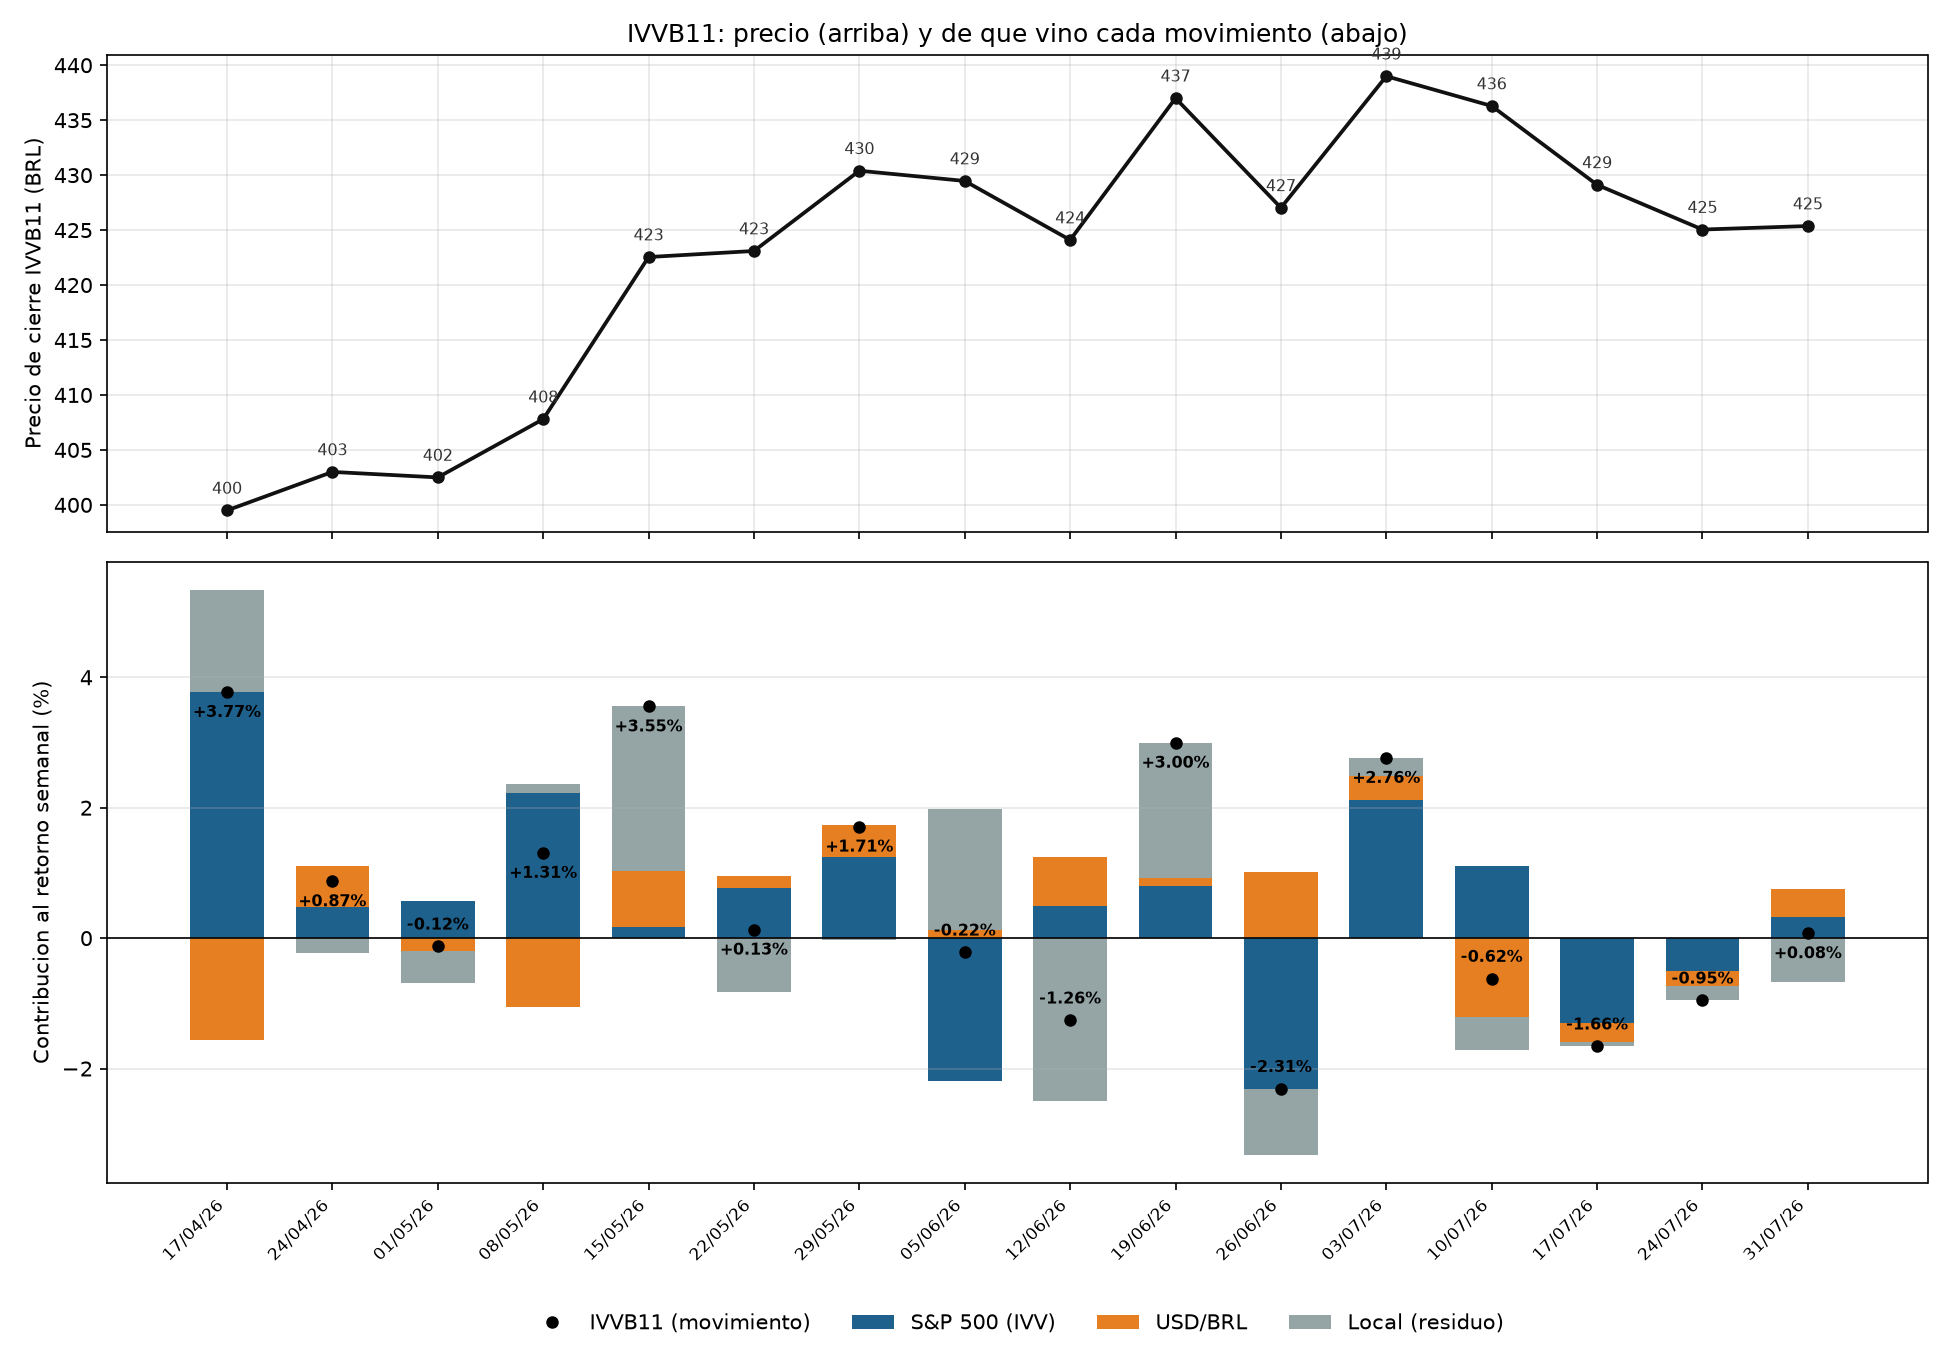
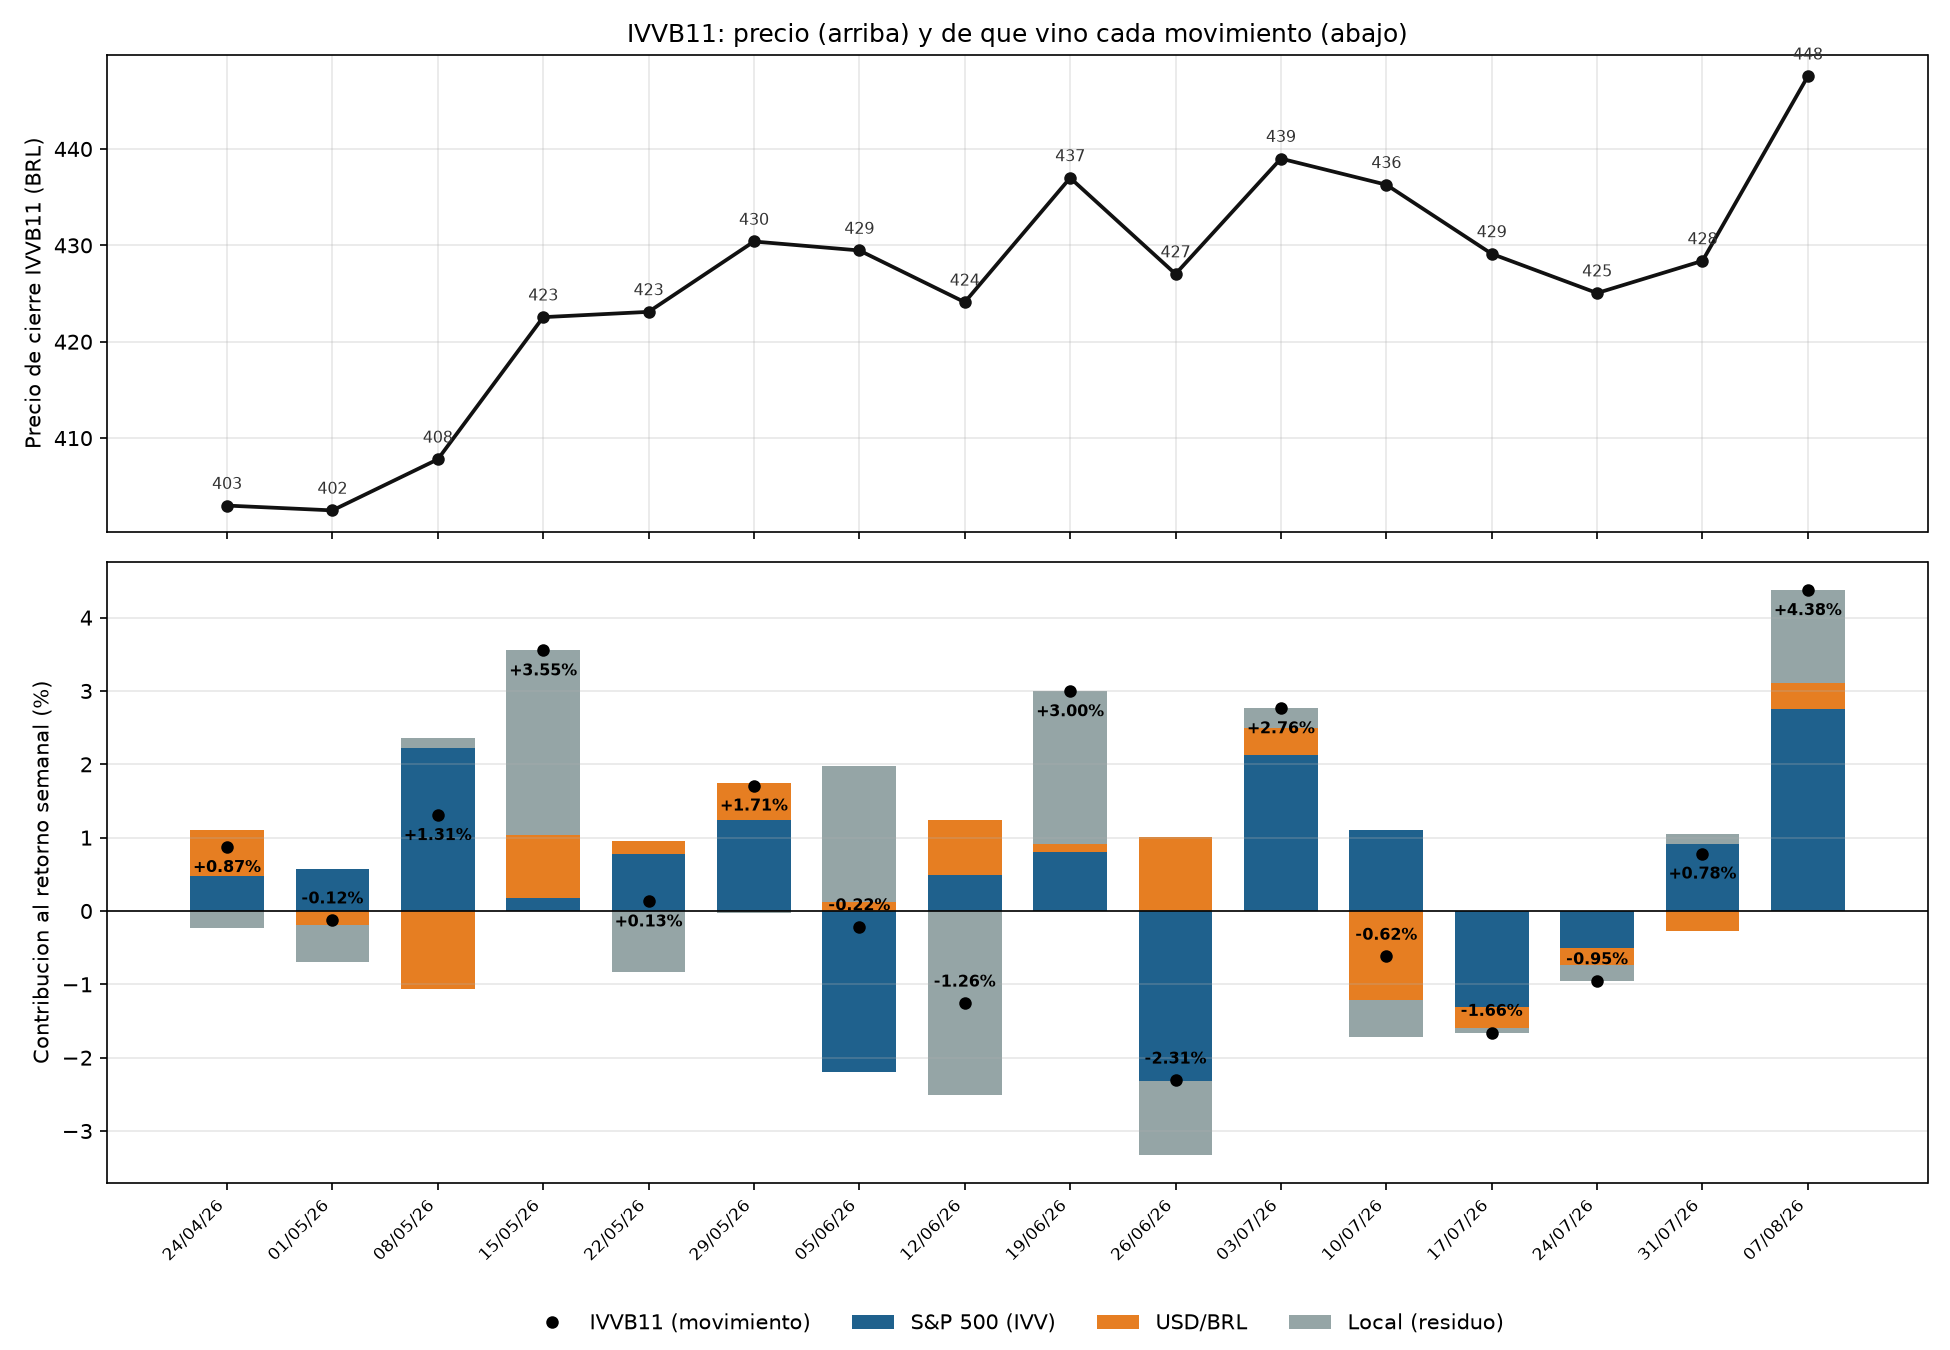
update and fix brent_ivvb11.py

diff --git a/brent_ivvb11.py b/brent_ivvb11.py
@@ -40,7 +40,7 @@ def descomponer(ret):
     contrib = pd.DataFrame({
         "S&P 500 (IVV)": m.params["IVV"] * ret["IVV"],
         "USD/BRL": m.params["USDBRL"] * ret["USDBRL"],
-        "Rresidual (local)": m.resid + m.params["const"],
+        "Local (residuo)": m.resid + m.params["const"],
     }, index=ret.index)
     return m, contrib
 
@@ -49,7 +49,7 @@ def importancia(ret, m):
     c_us = m.params["IVV"] * ret["IVV"]; c_fx = m.params["USDBRL"] * ret["USDBRL"]
     vt = ret["IVVB11"].var()
     return pd.Series({"S&P 500 (IVV)": c_us.var()/vt, "USD/BRL": c_fx.var()/vt,
-                      "Covarianza": 2*c_us.cov(c_fx)/vt, "Rresidual (local) / no explicado": m.resid.var()/vt})
+                      "Covarianza": 2*c_us.cov(c_fx)/vt, "Local (residuo) / no explicado": m.resid.var()/vt})
 
 
 def graficar(precio, contrib, ret, n=16):
@@ -58,7 +58,7 @@ def graficar(precio, contrib, ret, n=16):
     obs = ret["IVVB11"].tail(n) * 100
     x = np.arange(len(sub))
     fechas = [d.strftime("%d/%m/%y") for d in sub.index]
-    col = {"S&P 500 (IVV)": "#1F618D", "USD/BRL": "#E67E22", "Rresidual (lcoal)": "#95A5A6"}
+    col = {"S&P 500 (IVV)": "#1F618D", "USD/BRL": "#E67E22", "Local (residuo)": "#95A5A6"}
 
     fig, (axp, axd) = plt.subplots(2, 1, figsize=(13, 9), sharex=True,
                                    gridspec_kw={"height_ratios": [1, 1.3]})
@@ -74,7 +74,7 @@ def graficar(precio, contrib, ret, n=16):
 
     # --- panel inferior: DESCOMPOSICION (movimiento) ---
     pos = np.zeros(len(sub)); neg = np.zeros(len(sub))
-    for c in ["S&P 500 (IVV)", "USD/BRL", "Rresidual (local)"]:
+    for c in ["S&P 500 (IVV)", "USD/BRL", "Local (residuo)"]:
         v = sub[c].values
         axd.bar(x, v, bottom=np.where(v >= 0, pos, neg), color=col[c], label=c, width=0.7)
         pos += np.where(v >= 0, v, 0); neg += np.where(v < 0, v, 0)

diff --git a/README.md b/README.md
@@ -15,6 +15,8 @@ pip install -r requirements.txt
 ## Ejecución
 
 ```powershell
+.\fin_env\Scripts\Activate.ps1
+
 streamlit run app.py
 ```
 
